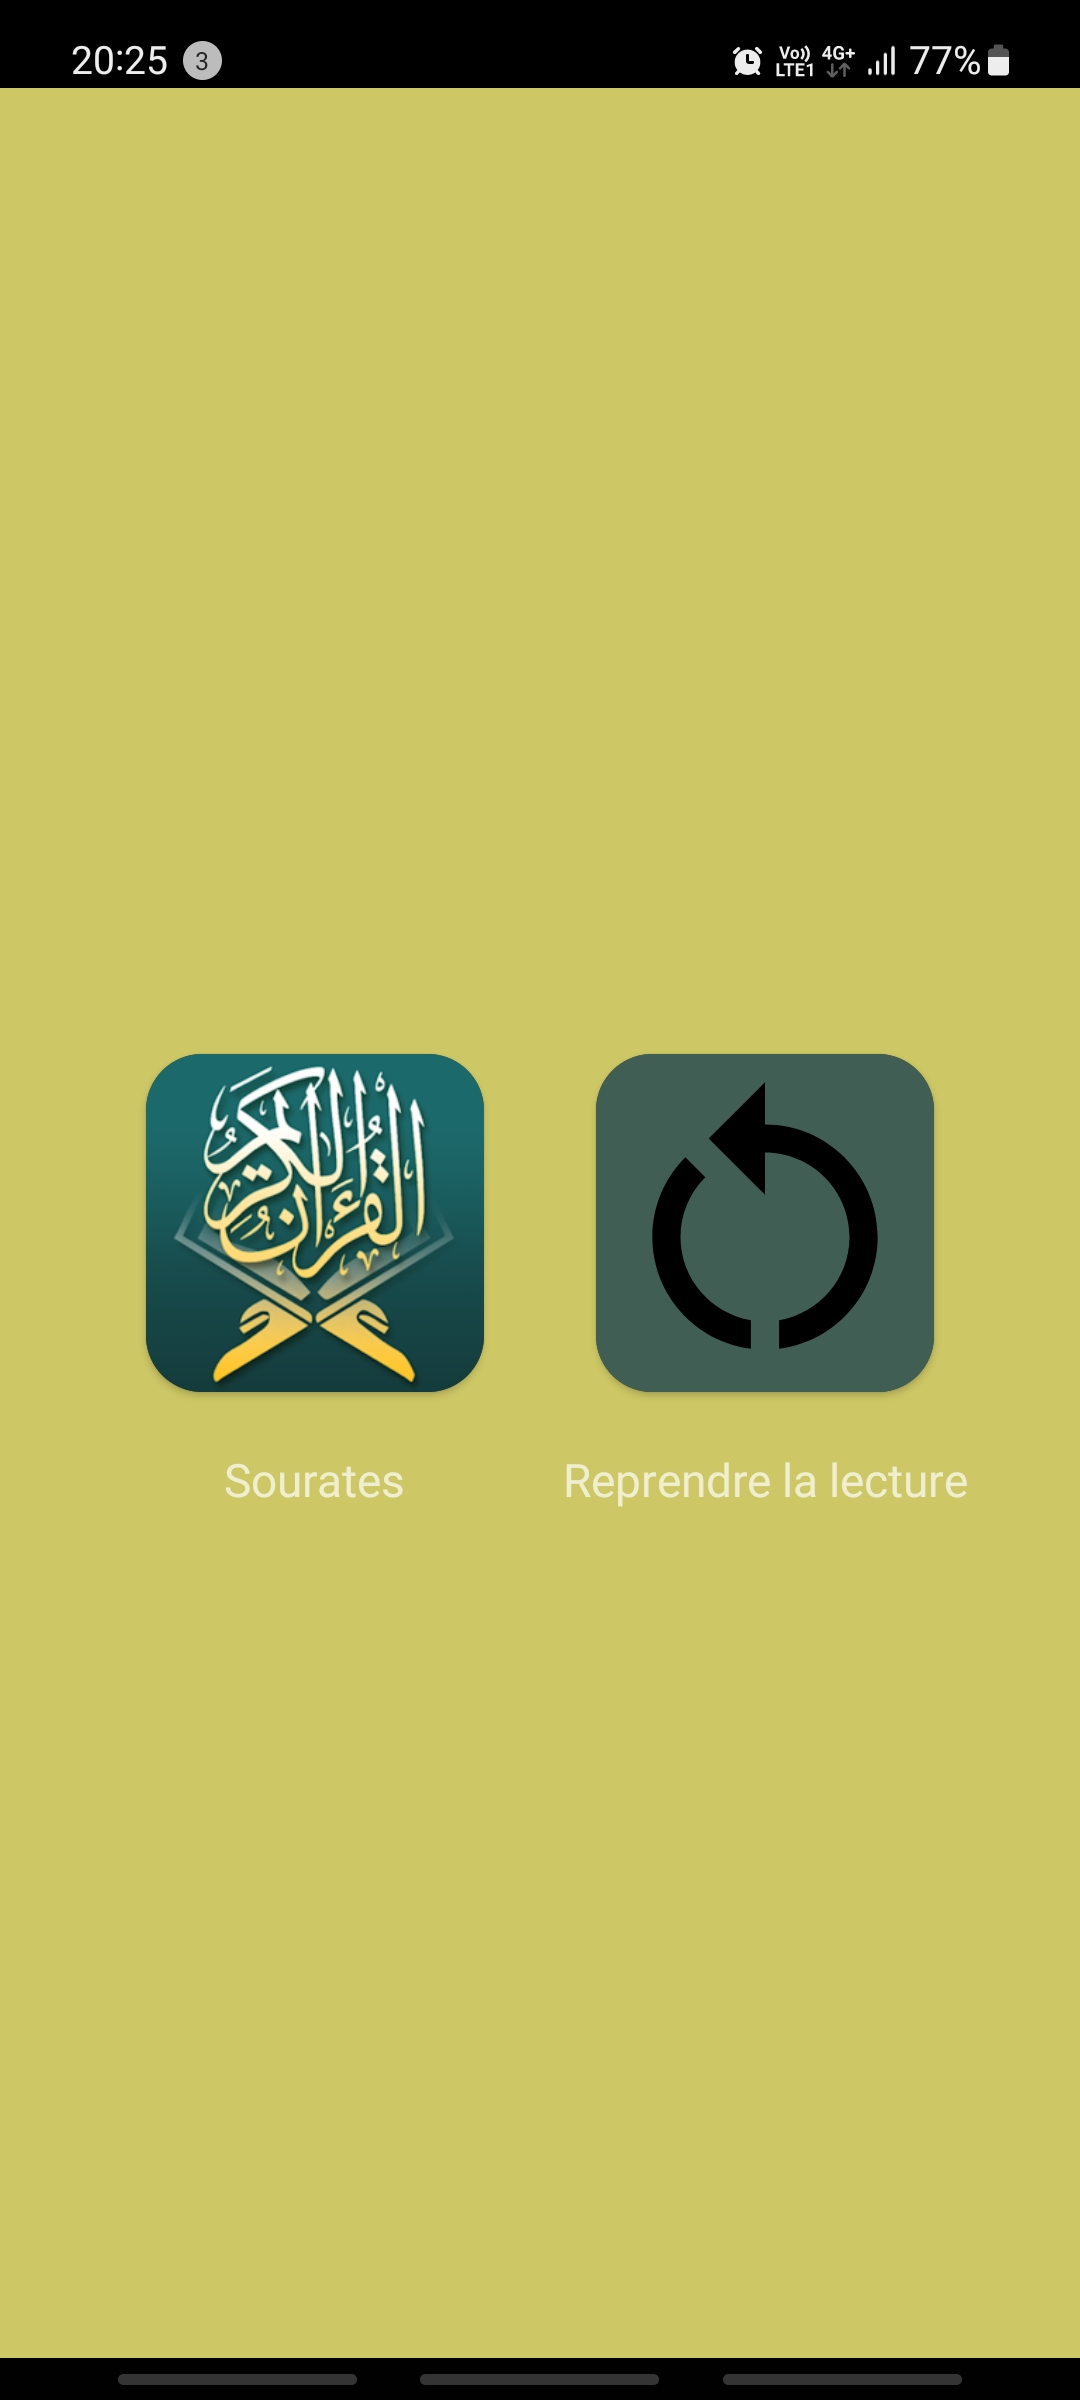
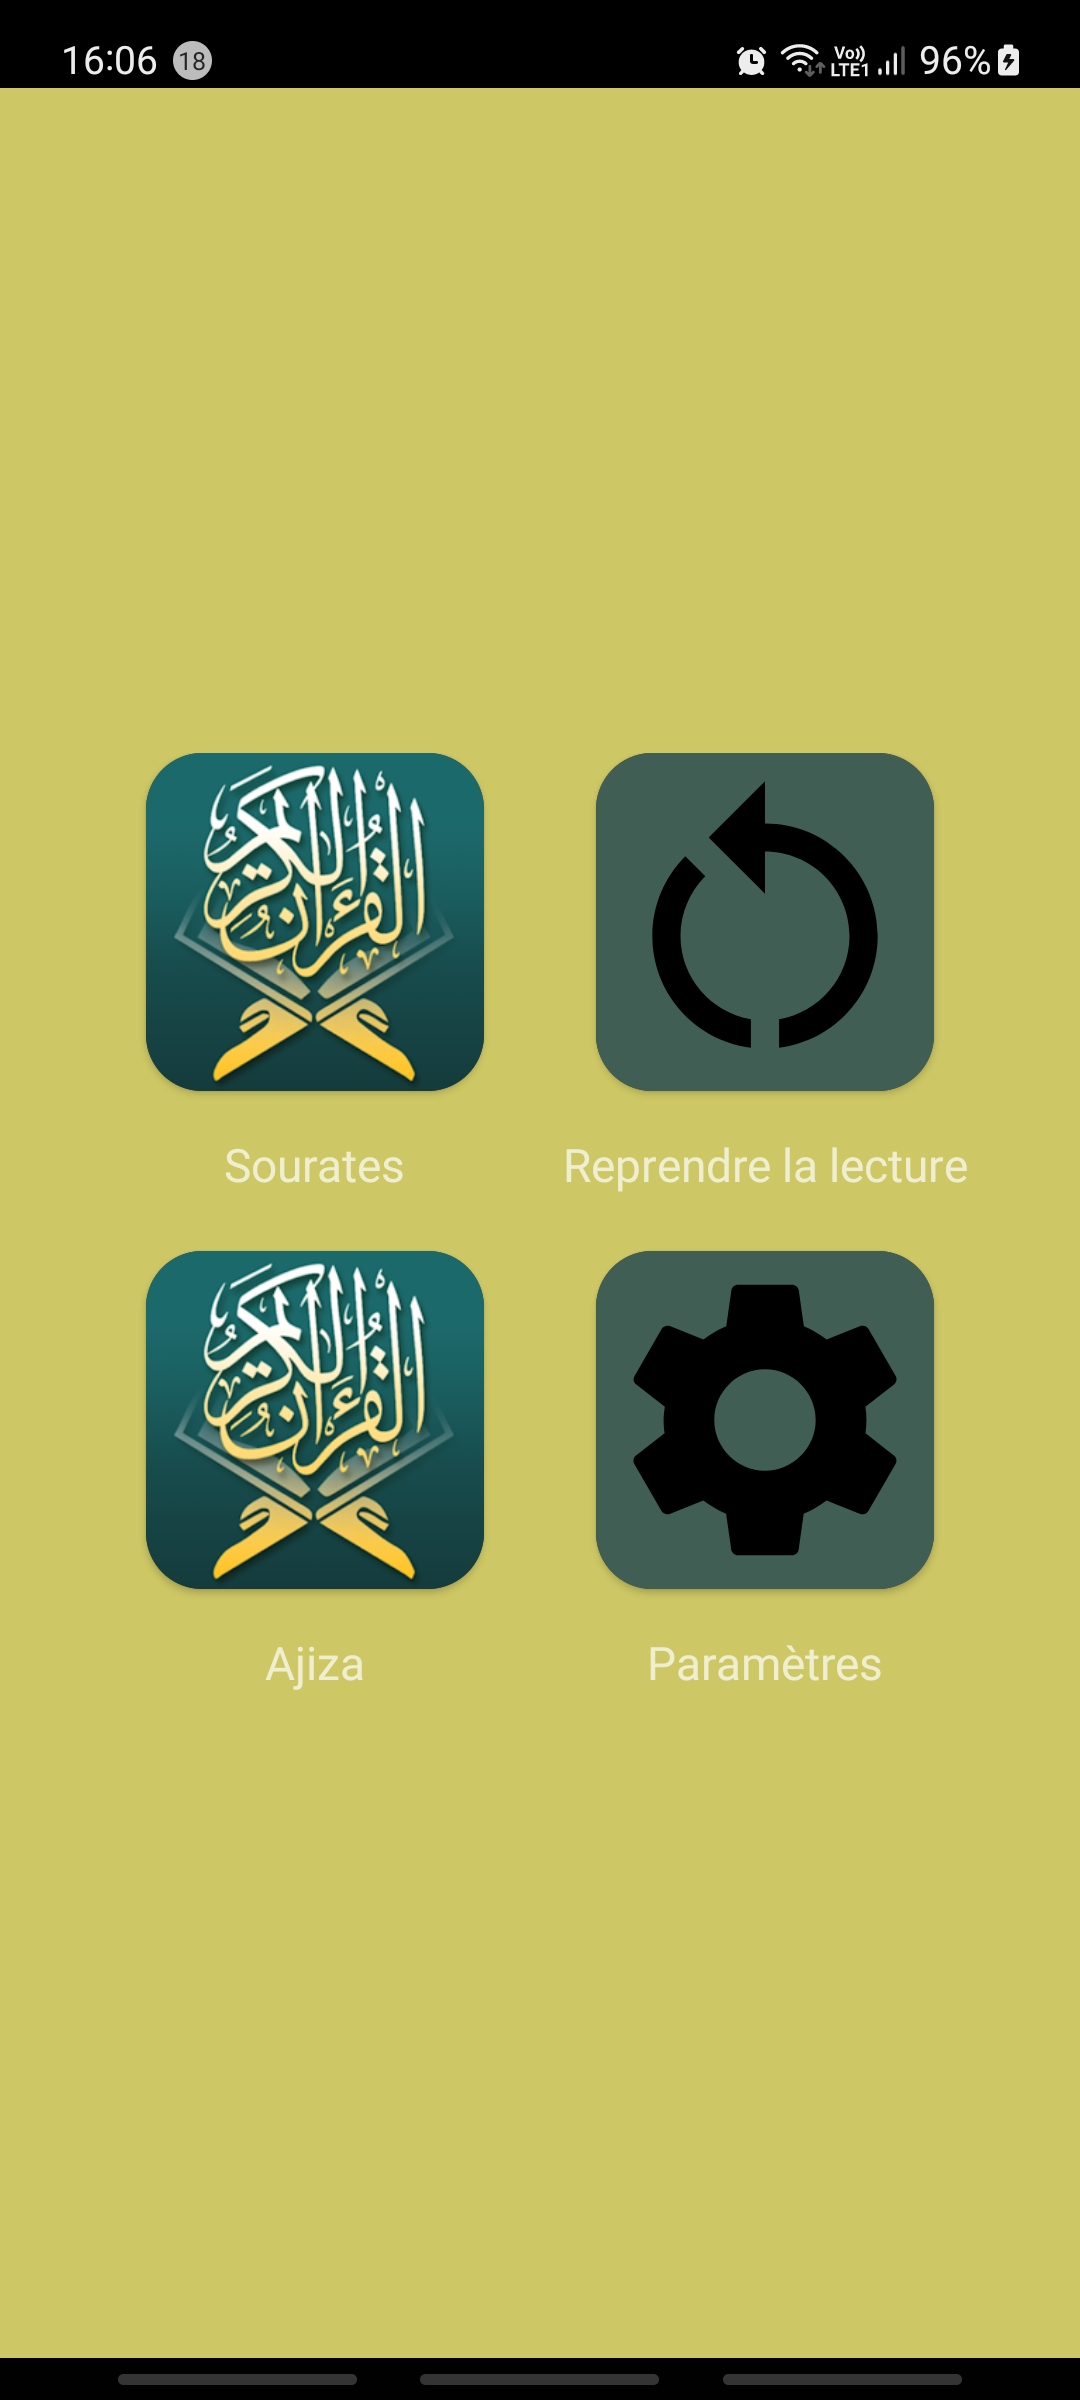
ajout de ajiza screen et script

diff --git a/README.md b/README.md
@@ -3,16 +3,22 @@ Le Coran en Arabe et en Français.
 J'ai développé cette application pour que je puisse lire le Coran sans interruption et/ou sans dérangement.   
 Ma principale motivation pour développer cette application est que les autres applications mettaient beaucoup de publicités et c'était désagréable à la fin.  
 L'utilisation reste très simple. 
-Au lancement de l'application, tu as deux actions à faire.. Choisir une sourate ou bien reprendre la lecture d'une sourate avec le verset où vous étiez arrêté. 
+Au lancement de l'application, on a ces choix à faire..  
+* Choisir une sourate 
+* Choisir un Juz'u
+* Reprendre la lecture d'une sourate avec le verset où vous étiez arrêté ou bien le dernier Juz'u. 
+* Paramètres de l'application. Afficher ou non la version en français.
 
 <div align="center">
 <img src="https://github.com/nabilesall/Qur-An/blob/main/images/Home_Qur'An.jpg" width="200"/>  
 </div>
 
 Le choix des sourates permet de choisir parmi les 114 qui existent. Pour chaque sourate, le nom en arabe et/ou en français et/ou en phonétique ainsi que le numéro de la sourate sont données.  
+De même pour le choix des Ajiza.
 
 <div align="center">
 <img src="https://github.com/nabilesall/Qur-An/blob/main/images/Sourates_Qur'An.jpg" width="200"/>  
+<img src="https://github.com/nabilesall/Qur-An/blob/main/images/Ajiza_Qur'An.jpg" width="200"/>
 </div>
 
 Pour chaque sourate choisie, on a la liste de tous les verset ainsi qu'en en-tête le nom de la sourate. Chaque version est donné en arabe et son équivalence proche (traduction ) en français.  
